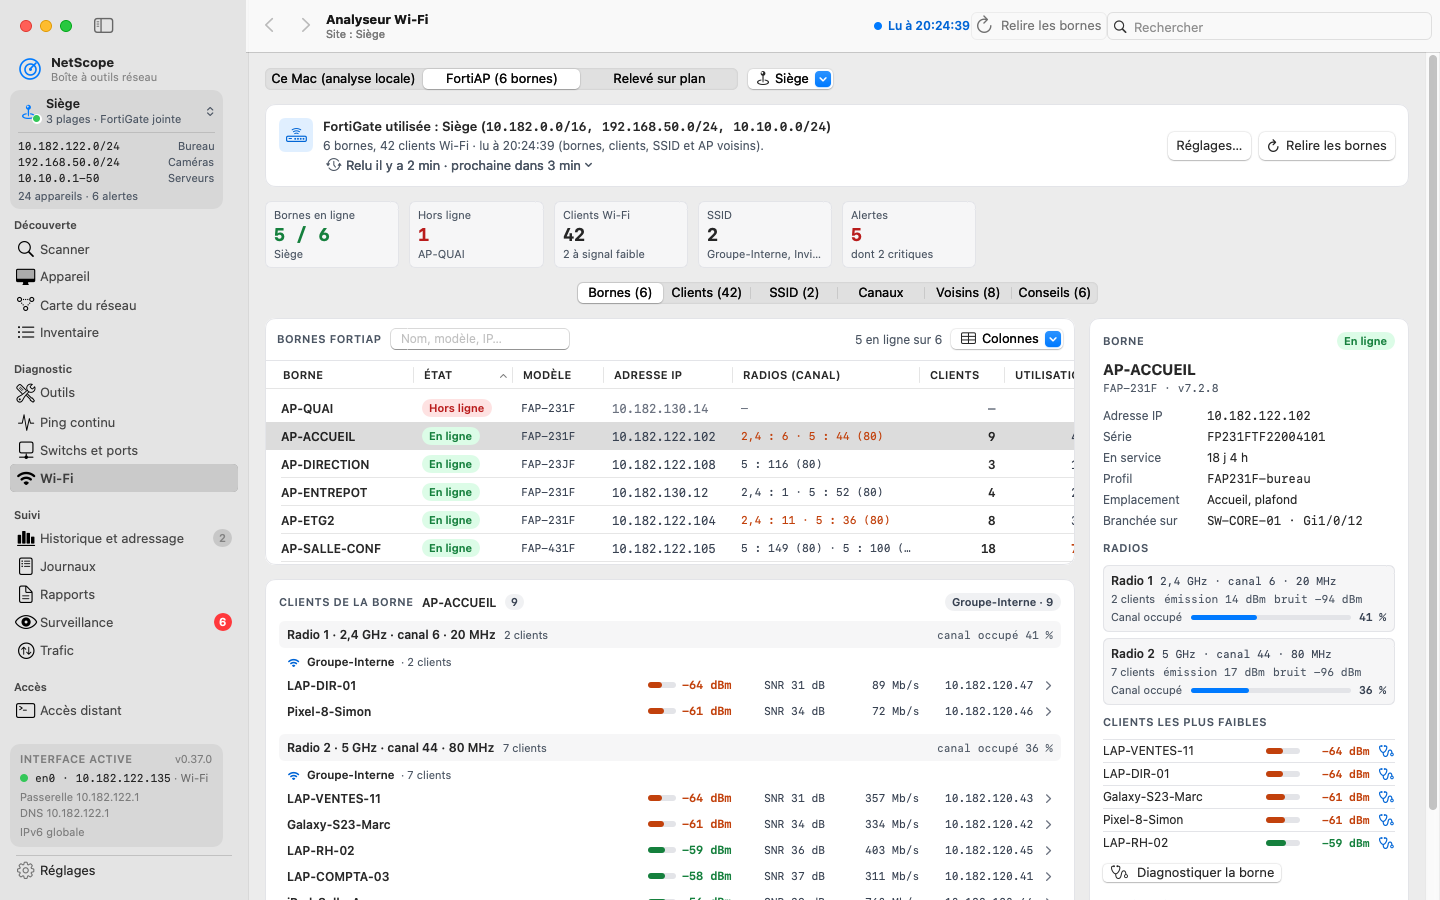
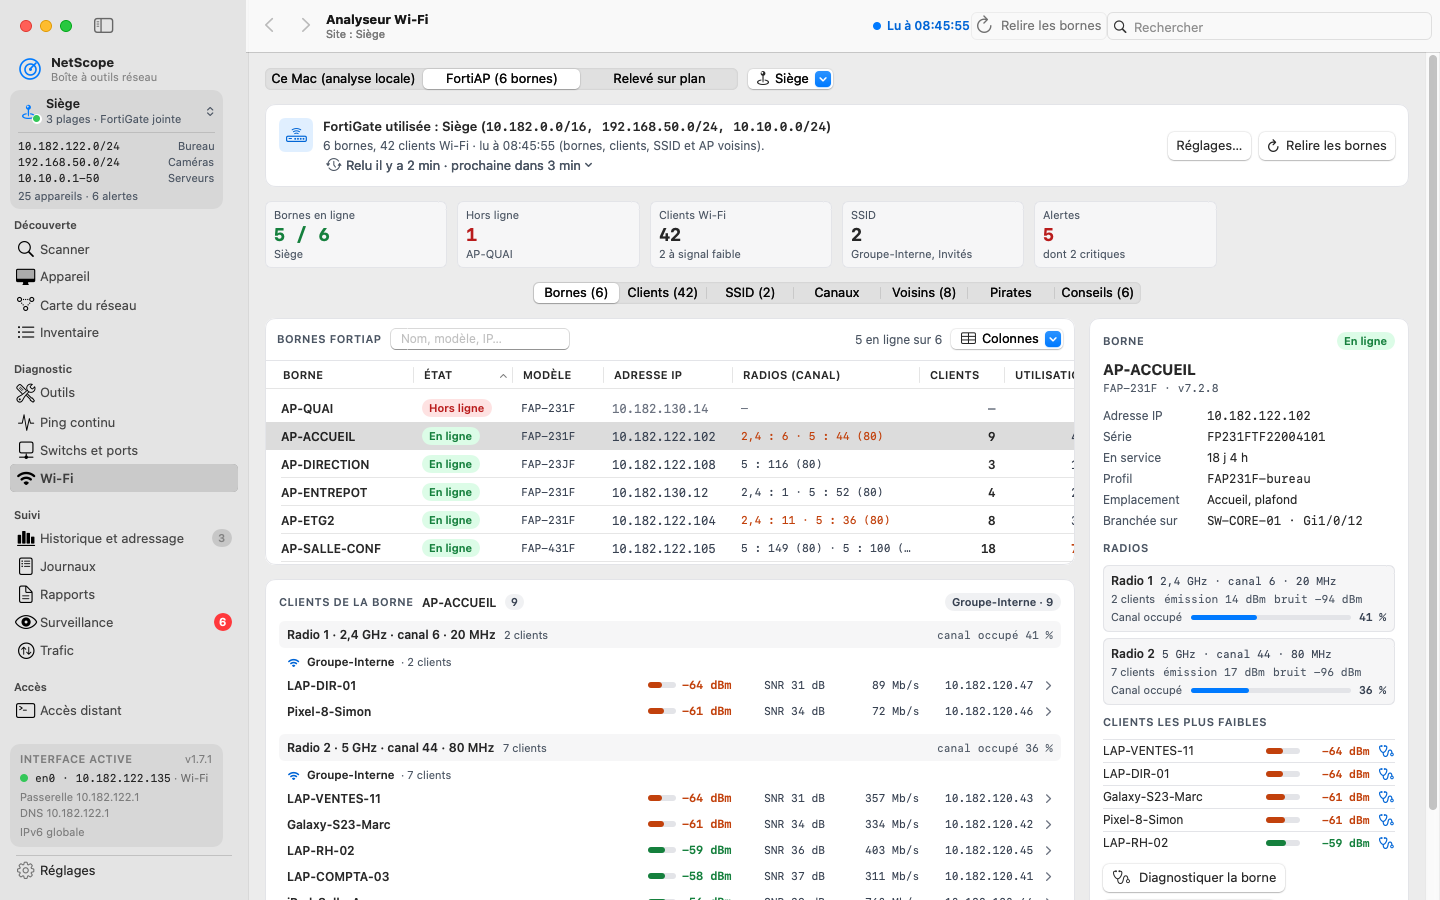
Version 1.7.1
Scanner vide sans site, sites en ordre alphabétique partout, tuiles assez larges pour une adresse MAC entière.

diff --git a/Sources/NetScope/Screens/Wifi/WifiPanels.swift b/Sources/NetScope/Screens/Wifi/WifiPanels.swift
@@ -208,7 +208,7 @@ struct WifiConnectionPanel: View {
         let ap = accessPoint(for: network)
         let colors = WifiText.qualityColor(network.rssi)
         let block = WifiText.block(network).map { " (\($0))" } ?? ""
-        return LazyVGrid(columns: [GridItem(.adaptive(minimum: 138), spacing: 8)], spacing: 8) {
+        return LazyVGrid(columns: [GridItem(.adaptive(minimum: Theme.tileMinWidth), spacing: 8, alignment: .top)], spacing: 8) {
             tile("BSSID", network.bssid?.formatted(.upperColon) ?? "masqué", mono: true)
             tile("Point d’accès", ap?.displayName ?? WifiText.vendor(network), sub: ap?.id ?? (network.bssid == nil ? nil : "fabricant d’après le BSSID"))
             if let ap, let switchName = ap.switchName {
@@ -267,9 +267,9 @@ struct WifiConnectionPanel: View {
             }
             .font(mono ? Theme.mono(12, weight: .semibold) : .system(size: 12, weight: .semibold))
             .foregroundStyle(accent ? Theme.accent : Theme.text)
-            .lineLimit(1)
+            .lineLimit(2)
             if let sub {
-                Text(sub).font(subMono ?? mono ? Theme.mono(11) : Theme.caption).foregroundStyle(Theme.textSecondary).lineLimit(1)
+                Text(sub).font(subMono ?? mono ? Theme.mono(11) : Theme.caption).foregroundStyle(Theme.textSecondary).lineLimit(2)
             }
         }
         .modifier(WifiTileStyle())
@@ -278,8 +278,8 @@ struct WifiConnectionPanel: View {
     private func tileColored(_ title: String, _ value: String, color: Color, sub: String?, mono: Bool = true) -> some View {
         VStack(alignment: .leading, spacing: 2) {
             Text(title).font(Theme.caption).foregroundStyle(Theme.textSecondary)
-            Text(value).font(mono ? Theme.mono(12, weight: .bold) : .system(size: 12, weight: .semibold)).foregroundStyle(color).lineLimit(1)
-            if let sub { Text(sub).font(Theme.caption).foregroundStyle(Theme.textSecondary).lineLimit(1) }
+            Text(value).font(mono ? Theme.mono(12, weight: .bold) : .system(size: 12, weight: .semibold)).foregroundStyle(color).lineLimit(2)
+            if let sub { Text(sub).font(Theme.caption).foregroundStyle(Theme.textSecondary).lineLimit(2) }
         }
         .modifier(WifiTileStyle())
     }

diff --git a/Sources/NetScope/Shared/SiteModel.swift b/Sources/NetScope/Shared/SiteModel.swift
@@ -224,7 +224,10 @@ final class SiteModel: ObservableObject {
         guard Launcher.isDemo, !attached else { return }
         attached = true
         for (key, results) in SitesDemo.results() { shelf.preload(results, for: key) }
-        if let wanted = ProcessInfo.processInfo.environment["NETSCOPE_SITE"]?.lowercased(),
+        let wanted = ProcessInfo.processInfo.environment["NETSCOPE_SITE"]?.lowercased()
+        if wanted == "aucun" {
+            activate(nil, state: state, confirm: false, announce: false)
+        } else if let wanted,
            let site = list.sites.first(where: { $0.displayName.lowercased() == wanted }) ?? list.sites.first(where: { $0.displayName.lowercased().contains(wanted) }),
            site.id != list.activeID {
             activate(site.id, state: state, confirm: false, announce: false)
@@ -304,7 +307,7 @@ final class SiteModel: ObservableObject {
         list.activeID = id
         save()
         if !adoptCurrent {
-            if let site = activeSite { state.ranges = site.ranges }
+            state.ranges = activeSite?.ranges ?? []
             apply(shelf.take(newKey), to: state)
         }
         FortiGateStore.shared.siteChanged(state: state)
@@ -529,6 +532,7 @@ final class SiteModel: ObservableObject {
             }
             InvModel.shared.switchSite(to: SiteFiles.noSiteKey, url: files?.inventoryURL(for: SiteFiles.noSiteKey), demoStore: nil, discardCurrent: true)
             list.activeID = nil
+            state.ranges = []
             apply(shelf.take(SiteFiles.noSiteKey), to: state)
             FortiGateStore.shared.siteChanged(state: state)
             RapportModel.shared.siteChanged(nil)
@@ -560,7 +564,7 @@ final class SiteModel: ObservableObject {
         if let removedSite { SiteControllerStore.shared.forgetSecrets(of: removedSite) }
         save()
         if wasActive {
-            ScanController.shared.show("Site supprimé\u{00A0}: aucun site actif. Les plages du Scanner restent celles du site supprimé, sans être enregistrées.", tone: .neutral)
+            ScanController.shared.show("Site supprimé\u{00A0}: aucun site actif, plages du Scanner vidées.", tone: .neutral)
         }
     }
 

diff --git a/Sources/NetScopeSelfTest/SiteTests.swift b/Sources/NetScopeSelfTest/SiteTests.swift
@@ -82,7 +82,18 @@ func registerSiteTests(_ suite: TestSuite) {
         let partial = Site(name: "Bureau Québec", ranges: [range("10.30.0.0/24"), range("192.168.1.0/24", "Invités")], created: now)
         let three = SiteList(sites: [one, two, partial])
         try expectEqual(three.sharingRanges(with: one.id).map(\.id), [two.id], "mêmes plages exactement")
-        try expectEqual(three.sharingAddresses(with: one.id).map(\.id), [two.id, partial.id], "une plage en commun suffit")
+        try expectEqual(three.sharingAddresses(with: one.id).map(\.id), [partial.id, two.id], "une plage en commun suffit, noms en ordre alphabétique")
+    }
+
+    suite.add("Sites : ordre alphabétique, jamais l'ordre de création") {
+        let shared = [range("192.168.1.0/24")]
+        let names = ["Zénith Centre", "atelier Nord", "Égide Sud", "Eden Est", "Ouest 12"]
+        let list = SiteList(sites: names.map { Site(name: $0, ranges: shared, switchHosts: ["10.0.0.2"], created: now) })
+        let sorted = ["atelier Nord", "Eden Est", "Égide Sud", "Ouest 12", "Zénith Centre"]
+        try expectEqual(list.sortedByName.map(\.displayName), sorted, "accents et majuscules ne dérangent pas le tri")
+        try expectEqual(list.sites(forSwitch: "10.0.0.2").map(\.displayName), sorted, "sites d'un switch triés")
+        let first = try siteRequire(list.sites.first, "premier site")
+        try expectEqual(list.sharingAddresses(with: first.id).map(\.displayName), sorted.filter { $0 != first.displayName }, "sites aux adresses communes triés")
     }
 
     suite.add("Sites : détection par la passerelle, jamais par la seule IP") {

diff --git a/Sources/NetScope/Screens/Wifi/ControllerWifiView.swift b/Sources/NetScope/Screens/Wifi/ControllerWifiView.swift
@@ -50,7 +50,7 @@ struct ControllerWifiView: View {
         let shownBands = [WifiBand.ghz24, .ghz5, .ghz6].filter { $0 != .ghz6 || summary.byBand[.ghz6] != nil }
         let offline = store.readings.flatMap(\.report.aps).filter { $0.online == false }
         let hasSignal = store.readings.flatMap(\.report.wirelessClients).contains { $0.rssi != nil }
-        return LazyVGrid(columns: [GridItem(.adaptive(minimum: 128), spacing: 10)], spacing: 10) {
+        return LazyVGrid(columns: [GridItem(.adaptive(minimum: Theme.tileMinWidth), spacing: 10, alignment: .top)], spacing: 10) {
             tile("Bornes en ligne", "\(summary.apsOnline) / \(summary.aps)",
                  sub: offline.isEmpty ? "aucune hors ligne" : "hors ligne\u{00A0}: \(offline.map(\.name).joined(separator: ", "))",
                  color: offline.isEmpty ? Theme.success : Theme.warning)
@@ -67,7 +67,7 @@ struct ControllerWifiView: View {
         VStack(alignment: .leading, spacing: 2) {
             Text(title).font(Theme.caption).foregroundStyle(Theme.textSecondary).lineLimit(1)
             Text(value).font(Theme.mono(18, weight: .bold)).foregroundStyle(color).lineLimit(1)
-            Text(sub).font(Theme.caption).foregroundStyle(Theme.textSecondary).lineLimit(1)
+            Text(sub).font(Theme.caption).foregroundStyle(Theme.textSecondary).lineLimit(2)
         }
         .modifier(WifiTileStyle())
         .help(sub)

diff --git a/Sources/NetScope/Screens/Wifi/FortiAPView.swift b/Sources/NetScope/Screens/Wifi/FortiAPView.swift
@@ -169,7 +169,7 @@ struct FortiAPView: View {
         let o = store.shownOverview
         let d = store.shownDiagnosis
         let critical = d.advice.filter { $0.severity == .critique }.count
-        return LazyVGrid(columns: [GridItem(.adaptive(minimum: 128), spacing: 10)], spacing: 10) {
+        return LazyVGrid(columns: [GridItem(.adaptive(minimum: Theme.tileMinWidth), spacing: 10, alignment: .top)], spacing: 10) {
             tile("Bornes en ligne", "\(o.onlineAPs.count) / \(o.aps.count)",
                  sub: o.isMultiSite ? "\(o.sites.count) sites" : (o.sites.first ?? ""), color: Theme.success, tab: .bornes)
             tile("Hors ligne", "\(o.offlineAPs.count)", sub: o.offlineAPs.first.map { $0.name + (o.offlineAPs.count > 1 ? "…" : "") } ?? "aucune",
@@ -191,7 +191,7 @@ struct FortiAPView: View {
             VStack(alignment: .leading, spacing: 2) {
                 Text(title).font(Theme.caption).foregroundStyle(Theme.textSecondary).lineLimit(1)
                 Text(value).font(Theme.mono(18, weight: .bold)).foregroundStyle(color).lineLimit(1)
-                Text(sub).font(Theme.caption).foregroundStyle(Theme.textSecondary).lineLimit(1)
+                Text(sub).font(Theme.caption).foregroundStyle(Theme.textSecondary).lineLimit(2)
             }
             .modifier(WifiTileStyle())
             .contentShape(Rectangle())

diff --git a/Sources/NetScope/Screens/Reglages/RegCredentialsSection.swift b/Sources/NetScope/Screens/Reglages/RegCredentialsSection.swift
@@ -265,7 +265,7 @@ struct RegCredentialsSection: View {
             Picker("", selection: $scope) {
                 Text("Tous les sites (par défaut)").tag(UUID?.none)
                 if !sites.sites.isEmpty { Divider() }
-                ForEach(sites.sites) { site in
+                ForEach(sites.sortedSites) { site in
                     Text(vault.perSite[site.id] == nil ? site.displayName : "\(site.displayName) · utilisateur propre")
                         .tag(UUID?.some(site.id))
                 }
@@ -280,7 +280,7 @@ struct RegCredentialsSection: View {
 
     /// Sites qui ont leur propre utilisateur v3.
     @ViewBuilder private var sitesNote: some View {
-        let own = sites.sites.compactMap { site in vault.perSite[site.id].map { (site, $0) } }
+        let own = sites.sortedSites.compactMap { site in vault.perSite[site.id].map { (site, $0) } }
         if !own.isEmpty || scope != nil {
             VStack(alignment: .leading, spacing: 4) {
                 if let scope, let site = sites.site(scope) {

diff --git a/Sources/NetScope/Screens/Firmware/FirmwareLicensesView.swift b/Sources/NetScope/Screens/Firmware/FirmwareLicensesView.swift
@@ -216,12 +216,12 @@ struct FirmwareLicensesView: View {
             ("FortiOS", versions.count == 1 ? versions.first! : "\(versions.count) versions", gates.count > 1 ? "\(gates.count) FortiGate" : (gates.first?.model ?? ""), Theme.text),
         ]
         return ViewThatFits(in: .horizontal) {
-            HStack(spacing: 8) {
+            HStack(alignment: .top, spacing: 8) {
                 ForEach(items, id: \.0) { item in
                     ToolStatTile(label: item.0, value: item.1, detail: item.2, valueColor: item.3).frame(minWidth: 124)
                 }
             }
-            LazyVGrid(columns: [GridItem(.adaptive(minimum: 124), spacing: 8)], alignment: .leading, spacing: 8) {
+            LazyVGrid(columns: [GridItem(.adaptive(minimum: Theme.tileMinWidth), spacing: 8, alignment: .top)], alignment: .leading, spacing: 8) {
                 ForEach(items, id: \.0) { item in
                     ToolStatTile(label: item.0, value: item.1, detail: item.2, valueColor: item.3)
                 }

diff --git a/Sources/NetScope/Screens/WAN/WANStatusView.swift b/Sources/NetScope/Screens/WAN/WANStatusView.swift
@@ -252,12 +252,12 @@ struct WANStatusView: View {
             ("VPN SSL", "\(overview.sslUsers.count)", overview.sslUsers.count > 1 ? "utilisateurs connectés" : "utilisateur connecté", Theme.text),
         ]
         return ViewThatFits(in: .horizontal) {
-            HStack(spacing: 8) {
+            HStack(alignment: .top, spacing: 8) {
                 ForEach(items, id: \.0) { item in
                     ToolStatTile(label: item.0, value: item.1, detail: item.2, valueColor: item.3).frame(minWidth: 124)
                 }
             }
-            LazyVGrid(columns: [GridItem(.adaptive(minimum: 124), spacing: 8)], alignment: .leading, spacing: 8) {
+            LazyVGrid(columns: [GridItem(.adaptive(minimum: Theme.tileMinWidth), spacing: 8, alignment: .top)], alignment: .leading, spacing: 8) {
                 ForEach(items, id: \.0) { item in
                     ToolStatTile(label: item.0, value: item.1, detail: item.2, valueColor: item.3)
                 }

diff --git a/Sources/NetScopeCore/Sites/Site.swift b/Sources/NetScopeCore/Sites/Site.swift
@@ -284,7 +284,7 @@ public struct SiteList: Codable, Hashable, Sendable {
 
     /// Sites associés à ce switch SNMP.
     public func sites(forSwitch host: String) -> [Site] {
-        sites.filter { $0.switchHosts.contains(host) }
+        sortedByName.filter { $0.switchHosts.contains(host) }
     }
 
     /// Associe un switch SNMP exactement aux sites donnés.
@@ -308,7 +308,7 @@ public struct SiteList: Codable, Hashable, Sendable {
         guard let site = site(id) else { return [] }
         let mine = site.parsedRanges
         guard !mine.isEmpty else { return [] }
-        return sites.filter { other in
+        return sortedByName.filter { other in
             other.id != id && other.parsedRanges.contains { theirs in mine.contains { ScanRelevance.overlaps($0, theirs) } }
         }
     }

diff --git a/Sources/NetScope/Screens/Reglages/RegSiteBoxes.swift b/Sources/NetScope/Screens/Reglages/RegSiteBoxes.swift
@@ -38,7 +38,7 @@ struct RegSiteFortiGateBox: View {
                         HStack(spacing: 6) {
                             Text(controller.displayName).font(Theme.small)
                             Text(controller.addressLabel).font(Theme.mono(11)).foregroundStyle(Theme.textSecondary)
-                            let others = sites.sites.filter { $0.id != site.id && $0.fortiGateIDs.contains(controller.id) }
+                            let others = sites.sortedSites.filter { $0.id != site.id && $0.fortiGateIDs.contains(controller.id) }
                             if !others.isEmpty {
                                 Text("site\u{00A0}: \(others.map(\.displayName).joined(separator: ", "))")
                                     .font(Theme.caption).foregroundStyle(Theme.textTertiary).lineLimit(1)

diff --git a/Sources/NetScope/Screens/Toolbox/MACHistoryView.swift b/Sources/NetScope/Screens/Toolbox/MACHistoryView.swift
@@ -32,7 +32,7 @@ struct MACHistoryView: View {
         let target = isBlank ? nil : FortiDeviceTarget.of(query: query, found: matches.map(\.mac))
         let reason = readBlocked(target, isBlank: isBlank, found: matches.count)
         VStack(alignment: .leading, spacing: 14) {
-            HStack(spacing: 10) {
+            HStack(alignment: .top, spacing: 10) {
                 ToolStatTile(label: "Adresses MAC", value: "\(history.macCount)", detail: "suivies sur ce site")
                 ToolStatTile(label: "Observations", value: "\(history.sightings.count)", detail: "IP, noms, ports, VLAN, bornes")
                 ToolStatTile(label: "Résultats", value: "\(matches.count)", detail: isBlank ? "aucune recherche" : (query.isEmpty ? "ce jour-là" : "pour «\u{00A0}\(query)\u{00A0}»"))

diff --git a/Sources/NetScope/Screens/Toolbox/BlacklistView.swift b/Sources/NetScope/Screens/Toolbox/BlacklistView.swift
@@ -148,7 +148,7 @@ struct BlacklistView: View {
         let listed = report.listed.count
         let major = report.majorListings.count
         let undetermined = report.undetermined
-        return LazyVGrid(columns: [GridItem(.adaptive(minimum: 130), spacing: 10, alignment: .top)], spacing: 8) {
+        return LazyVGrid(columns: [GridItem(.adaptive(minimum: Theme.tileMinWidth), spacing: 10, alignment: .top)], spacing: 8) {
             ToolStatTile(label: "Inscriptions", value: "\(listed)",
                          detail: major > 0 ? "\(major) liste\(major > 1 ? "s" : "") majeure\(major > 1 ? "s" : "")" : (listed > 0 ? "mineures seulement" : "aucune"),
                          valueColor: major > 0 ? Theme.critical : (listed > 0 ? Theme.warning : Theme.success))
